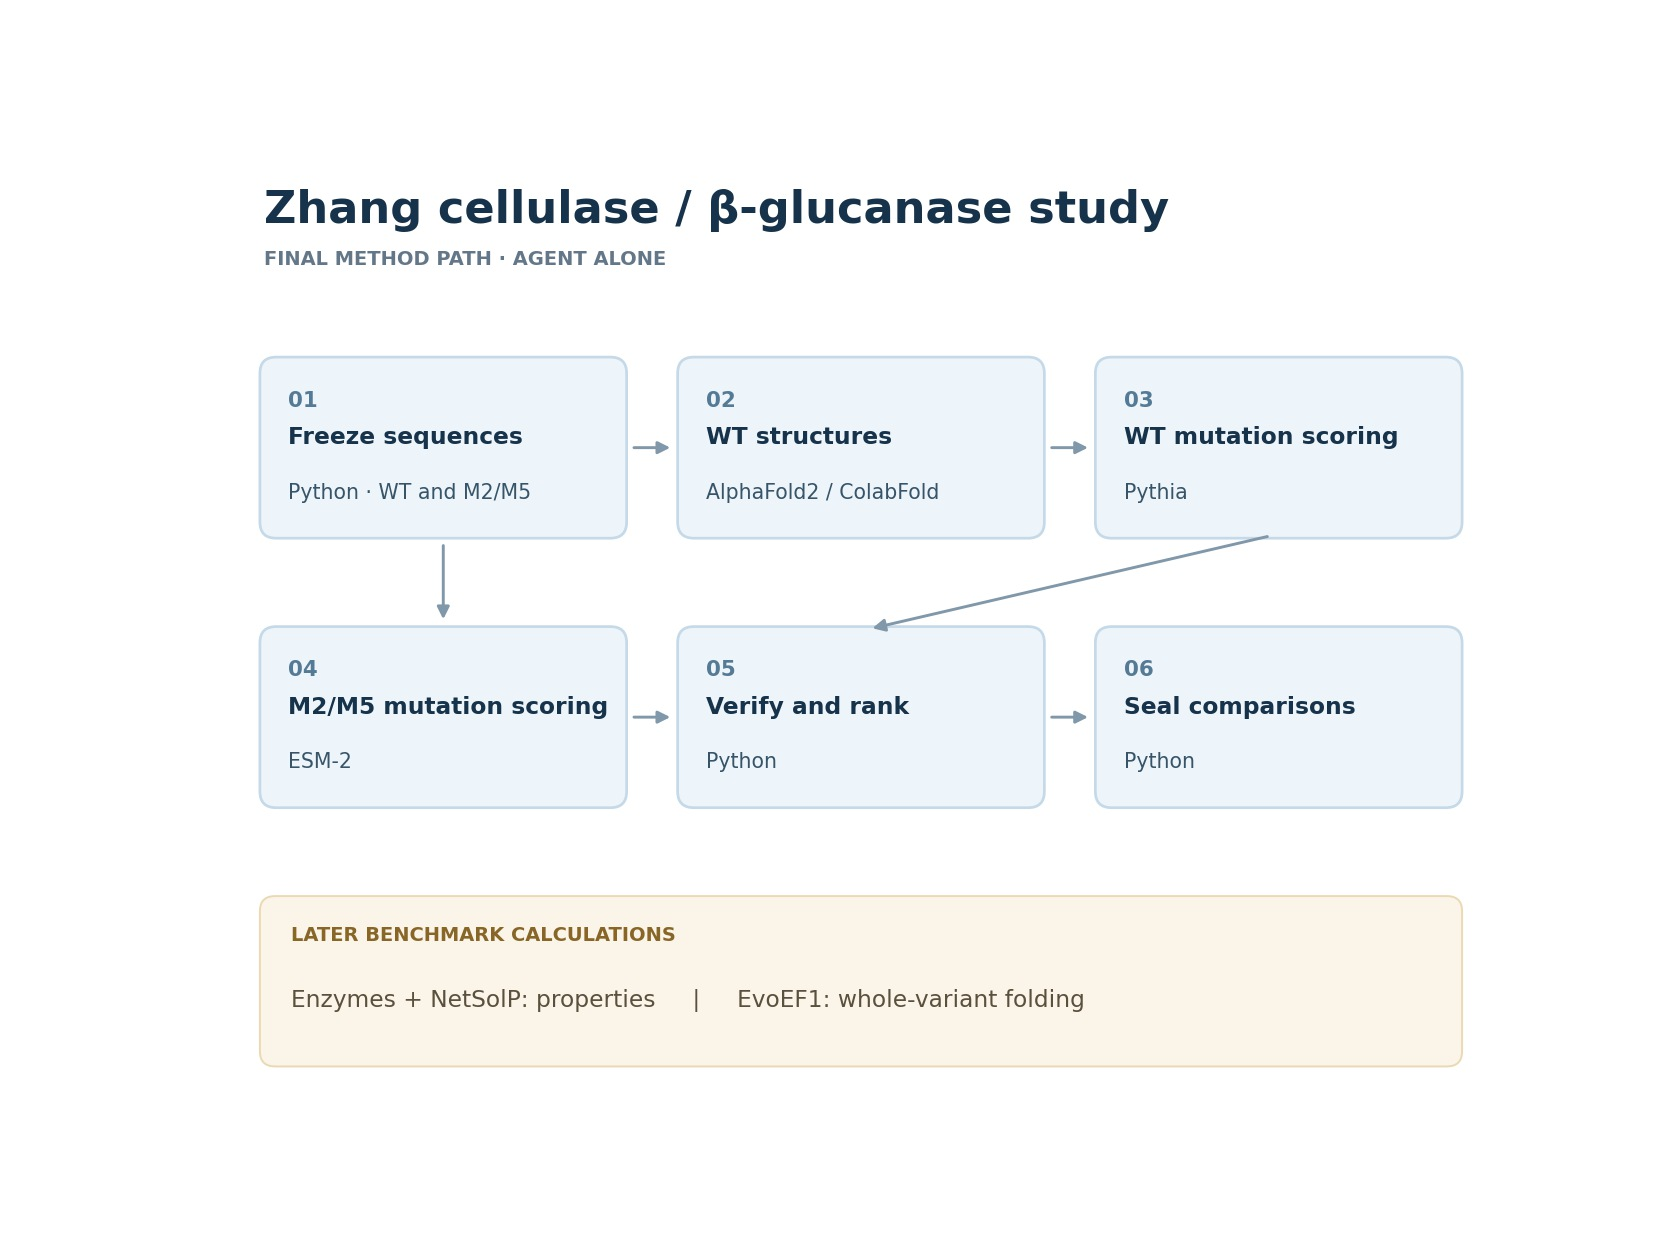
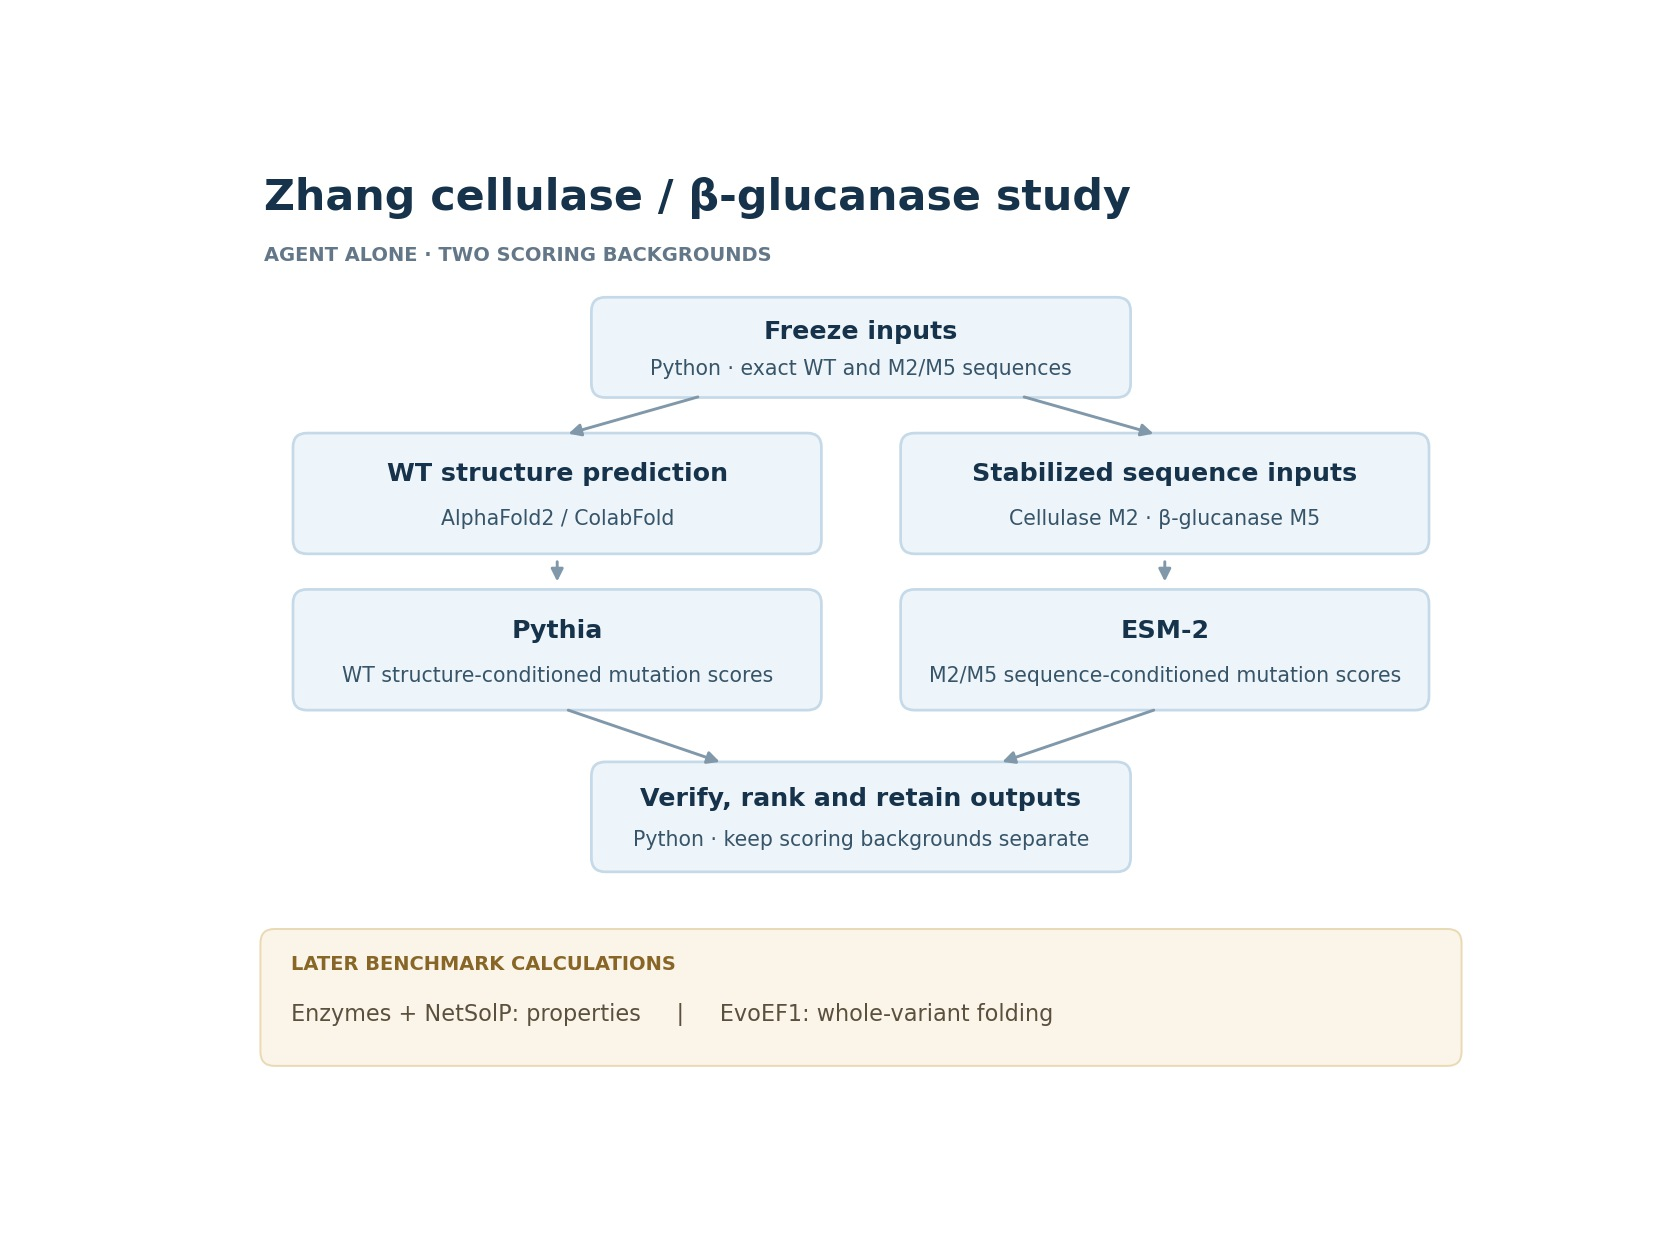
docs: clarify parallel Zhang scoring branches in workflow image (#171)

diff --git a/environments/enzyme-variant-optimization/src/workflow_figures.py b/environments/enzyme-variant-optimization/src/workflow_figures.py
@@ -62,8 +62,59 @@ SPECS = [{'task': 'task_001_rml_stability',
              ['Seal comparisons', 'Python']],
   'later': 'Enzymes + NetSolP: properties     |     EvoEF1: whole-variant folding'}]
 
+def build_zhang(env, spec):
+    """Keep WT structure scoring and stabilized-sequence scoring in separate lanes."""
+    fig, ax = plt.subplots(figsize=(12, 9))
+    fig.patch.set_facecolor("white")
+    ax.set(xlim=(0, 12), ylim=(0, 9))
+    ax.axis("off")
+    ax.text(.5, 8.45, spec["title"], fontsize=22, weight="bold", color="#16334b")
+    ax.text(.5, 7.98, "AGENT ALONE · TWO SCORING BACKGROUNDS", fontsize=10,
+            weight="bold", color="#647789")
+
+    def card(x, y, width, height, title, subtitle):
+        ax.add_patch(FancyBboxPatch((x, y), width, height,
+                     boxstyle="round,pad=.035,rounding_size=.13",
+                     facecolor="#eef5fa", edgecolor="#c5d9e8", linewidth=1.4))
+        ax.text(x + width / 2, y + height * .67, title, fontsize=13,
+                weight="bold", color="#16334b", ha="center", va="center")
+        ax.text(x + width / 2, y + height * .27, subtitle, fontsize=10.5,
+                color="#375469", ha="center", va="center")
+
+    def arrow(start, end):
+        ax.add_patch(FancyArrowPatch(start, end, arrowstyle="-|>",
+                     mutation_scale=13, color="#8198aa", linewidth=1.5,
+                     shrinkA=6, shrinkB=6))
+
+    card(3.55, 6.75, 4.9, .86, "Freeze inputs", "Python · exact WT and M2/M5 sequences")
+    card(.8, 5.3, 4.8, 1.05, "WT structure prediction", "AlphaFold2 / ColabFold")
+    card(6.4, 5.3, 4.8, 1.05, "Stabilized sequence inputs", "Cellulase M2 · β-glucanase M5")
+    card(.8, 3.85, 4.8, 1.05, "Pythia", "WT structure-conditioned mutation scores")
+    card(6.4, 3.85, 4.8, 1.05, "ESM-2", "M2/M5 sequence-conditioned mutation scores")
+    card(3.55, 2.35, 4.9, .95, "Verify, rank and retain outputs", "Python · keep scoring backgrounds separate")
+    arrow((4.6, 6.75), (3.2, 6.35))
+    arrow((7.4, 6.75), (8.8, 6.35))
+    arrow((3.2, 5.3), (3.2, 4.9))
+    arrow((8.8, 5.3), (8.8, 4.9))
+    arrow((3.2, 3.85), (4.8, 3.3))
+    arrow((8.8, 3.85), (7.2, 3.3))
+    ax.add_patch(FancyBboxPatch((.5, .55), 11, 1.2,
+                 boxstyle="round,pad=.035,rounding_size=.13",
+                 facecolor="#fbf5e9", edgecolor="#e9d9b5"))
+    ax.text(.75, 1.4, "LATER BENCHMARK CALCULATIONS", fontsize=10,
+            weight="bold", color="#886627")
+    ax.text(.75, .93, spec["later"], fontsize=11.5, color="#5b503d")
+    target = env / "results" / spec["task"] / "agent-alone/figures/workflow.jpg"
+    target.parent.mkdir(parents=True, exist_ok=True)
+    fig.savefig(target, dpi=140, format="jpg", pil_kwargs={"quality": 93}, facecolor="white")
+    plt.close(fig)
+
+
 def build(env):
     for spec in SPECS:
+        if spec["task"] == "task_006_zhang_hydrolases":
+            build_zhang(env, spec)
+            continue
         fig, ax = plt.subplots(figsize=(12, 9))
         fig.patch.set_facecolor("#ffffff")
         ax.set(xlim=(0, 12), ylim=(0, 9))
@@ -71,11 +122,7 @@ def build(env):
         ax.text(.5, 8.45, spec["title"], fontsize=23, weight="bold", color="#16334b", va="center")
         ax.text(.5, 7.94, "FINAL METHOD PATH · AGENT ALONE", fontsize=10, weight="bold", color="#647789")
         positions = [(0.5, 5.45), (4.35, 5.45), (8.2, 5.45), (8.2, 2.95), (4.35, 2.95), (.5, 2.95)]
-        # Zhang has parallel score branches: input → ESM, structure → Pythia; both → ranking.
         edges = [(0,1),(1,2),(2,3),(3,4),(4,5)]
-        if spec["task"] == "task_006_zhang_hydrolases":
-            positions = [(.5,5.45),(4.35,5.45),(8.2,5.45),(.5,2.95),(4.35,2.95),(8.2,2.95)]
-            edges = [(0,1),(1,2),(0,3),(2,4),(3,4),(4,5)]
         width, height = 3.3, 1.6
         for i, ((stage, tool), (x,y)) in enumerate(zip(spec["stages"], positions)):
             ax.add_patch(FancyBboxPatch((x,y),width,height,boxstyle="round,pad=0.04,rounding_size=0.15",facecolor="#eef5fa",edgecolor="#c5d9e8",linewidth=1.4))

diff --git a/environments/enzyme-variant-optimization/results/task_006_zhang_hydrolases/agent-alone/WORKFLOW.md b/environments/enzyme-variant-optimization/results/task_006_zhang_hydrolases/agent-alone/WORKFLOW.md
@@ -2,7 +2,7 @@
 
 ![Final workflow tools](figures/workflow.jpg)
 
-The diagram shows the final method path, with later benchmark calculations in a separate panel. Relevant screens and assessments were repeated after sequence revisions.
+The WT branch uses AlphaFold2/ColabFold structures with Pythia. The separate M2/M5 branch uses sequence-based ESM-2 scoring. Python verifies and ranks the outputs while keeping these backgrounds separate; later benchmark calculations appear below.
 
 | Stage | Tools | Work performed | Results |
 |---|---|---|---|
